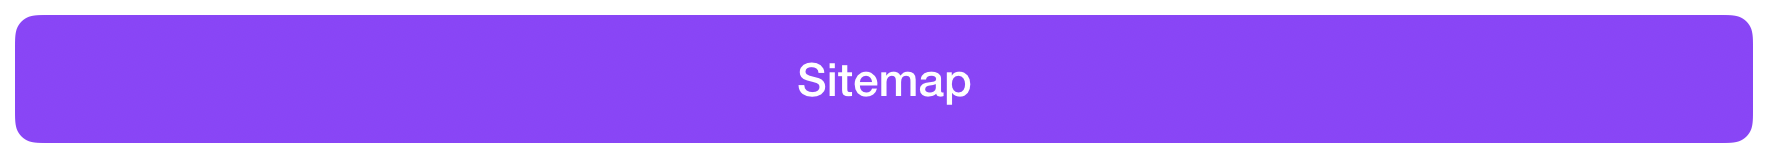
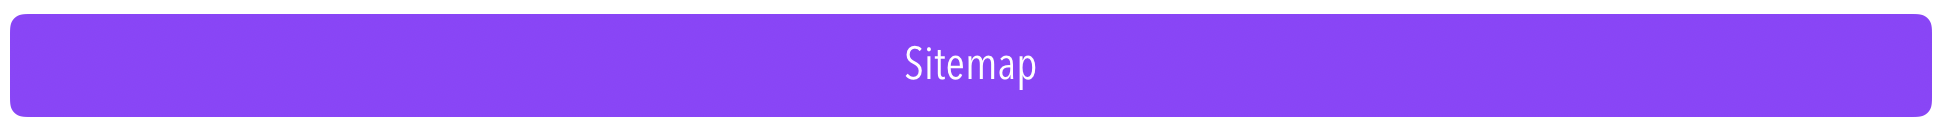
Added sitemap button

Changed region(s): [[0.0, 0.0909, 1.0, 0.9091], [0.434, 0.3333, 0.5581, 0.6364]]

diff --git a/README.md b/README.md
@@ -16,13 +16,12 @@ For other data-analysis related topics please take a look at the [dataViz_CADi](
 
 [<img src="./md/media/dataPy.jpg" width="50%" height="137.5px">](https://github.com/Chipdelmal/dataPy_CADi)[<img src="./md/media/dataViz.jpg" width="50%" height="137.5px">](https://github.com/Chipdelmal/dataViz_CADi)<br>
 
-<img src="./md/media/flow.jpg" width="100%" height=7.5px>
+<!--<img src="./md/media/flow.jpg" width="100%" height=7.5px>-->
+<hr>
 
 ## Contents
 
-This workshop was created with flexibility in mind. As such, modules are fairly independent and can be followed in a different order than the one suggested here. For a topic-oriented breakdown of the contents, please have a look at the:
-
-[<img src="./md/media/sitemap.png" width="100%">](./md/sitemap.md)
+This workshop was created with flexibility in mind. As such, modules are fairly independent and can be followed in a different order than the one suggested here. For a topic-oriented breakdown of the contents, please have a look at the [sitemap](./md/sitemap.md).
 
 ### Day 01 (8h)
 
@@ -58,7 +57,9 @@ This workshop was created with flexibility in mind. As such, modules are fairly 
 1. [GeoData](./md/geoData.md): How to work with geographic datasets with [geopandas](http://geopandas.org/) and [osmnx](https://github.com/gboeing/osmnx).
 
 
-<img src="./md/media/flow.jpg" width="100%" height=7.5px>
+[<img src="./md/media/sitemap.png" width="100%">](./md/sitemap.md)
+
+<hr>
 
 ## Resources
 
@@ -121,7 +122,7 @@ This workshop was created with flexibility in mind. As such, modules are fairly 
 * [Matthes, E. (2016). Python Crash Course - A Hands-On, Project-Based Introduction to Programming. No Starch Press.](https://www.amazon.com/Python-Crash-Course-Project-Based-Introduction/dp/1593276036)
 
 
-<img src="./md/media/flow.jpg" width="100%" height=7.5px>
+<hr>
 
 ### Alumni
 
@@ -129,7 +130,7 @@ This workshop was created with flexibility in mind. As such, modules are fairly 
 
 <p style="font-size:10px">Rick Leigh Swenson Durie • Humberto Cárdenas Anaya • Norma Amanda Elías Solís • Rubén Darío Santiago Acosta • Faustino Yescas Martinez • Raúl Gómez Castillo • Luis Angel Trejo Rodríguez • Jorge Adolfo Ramírez Uresti • Ariel Ortíz Ramírez • Lucio López Cavazos • Pedro Oscar Pérez Murueta • María del Consuelo Serrato Arias • Alfredo Santana Díaz • Roberto Martínez Román • José Luis Gómez Muñoz • Jesús Cuauhtémoc Téllez Gaytán • Manuel Sotelo Duarte • Jorge Sastré Hernández • Ricardo Mendez Hernandez • Luis Enrique Villagómez Guerrero • Francisco Javier Rojas Correa • András Takács • Oriam Renan De Gyves López • Oscar Antonio Osorio Pérez • Miguel Angel Medina Pérez • Yocanxóchitl Perfecto Avalos • Jesús Arturo Escobedo Cabello • Hector Javier Medel Cobaxin </p>
 
-<img src="./md/media/flow.jpg" width="100%" height=7.5px>
+<hr>
 
 ### Author: [Ph.D. Héctor Manuel Sánchez Castellanos](https://chipdelmal.github.io/)
 
